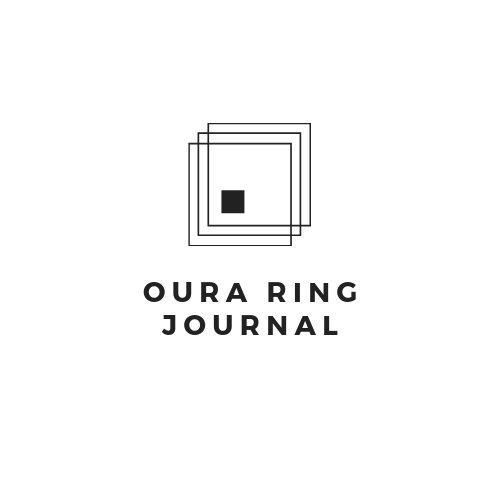
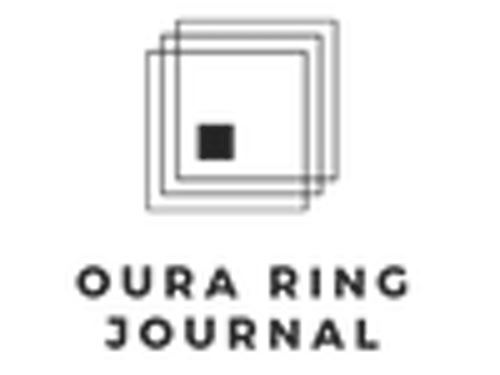
jumbotron

Changed region(s): [[0.27, 0.0293, 0.72, 0.6747], [0.15, 0.704, 0.84, 0.9387]]

diff --git a/src/components/Navbar.js b/src/components/Navbar.js
@@ -42,7 +42,7 @@ const Navbar = class extends React.Component {
         <div className="container">
           <div className="navbar-brand">
             <Link to="/" className="navbar-item" title="Logo">
-              <img src={logo} alt="Kaldi" style={{ width: '200px',height:'1000px'}} />
+              <img src={logo} alt="Kaldi" style={{ width: '88px'}} />
             </Link>
             {/* Hamburger menu */}
             <div
